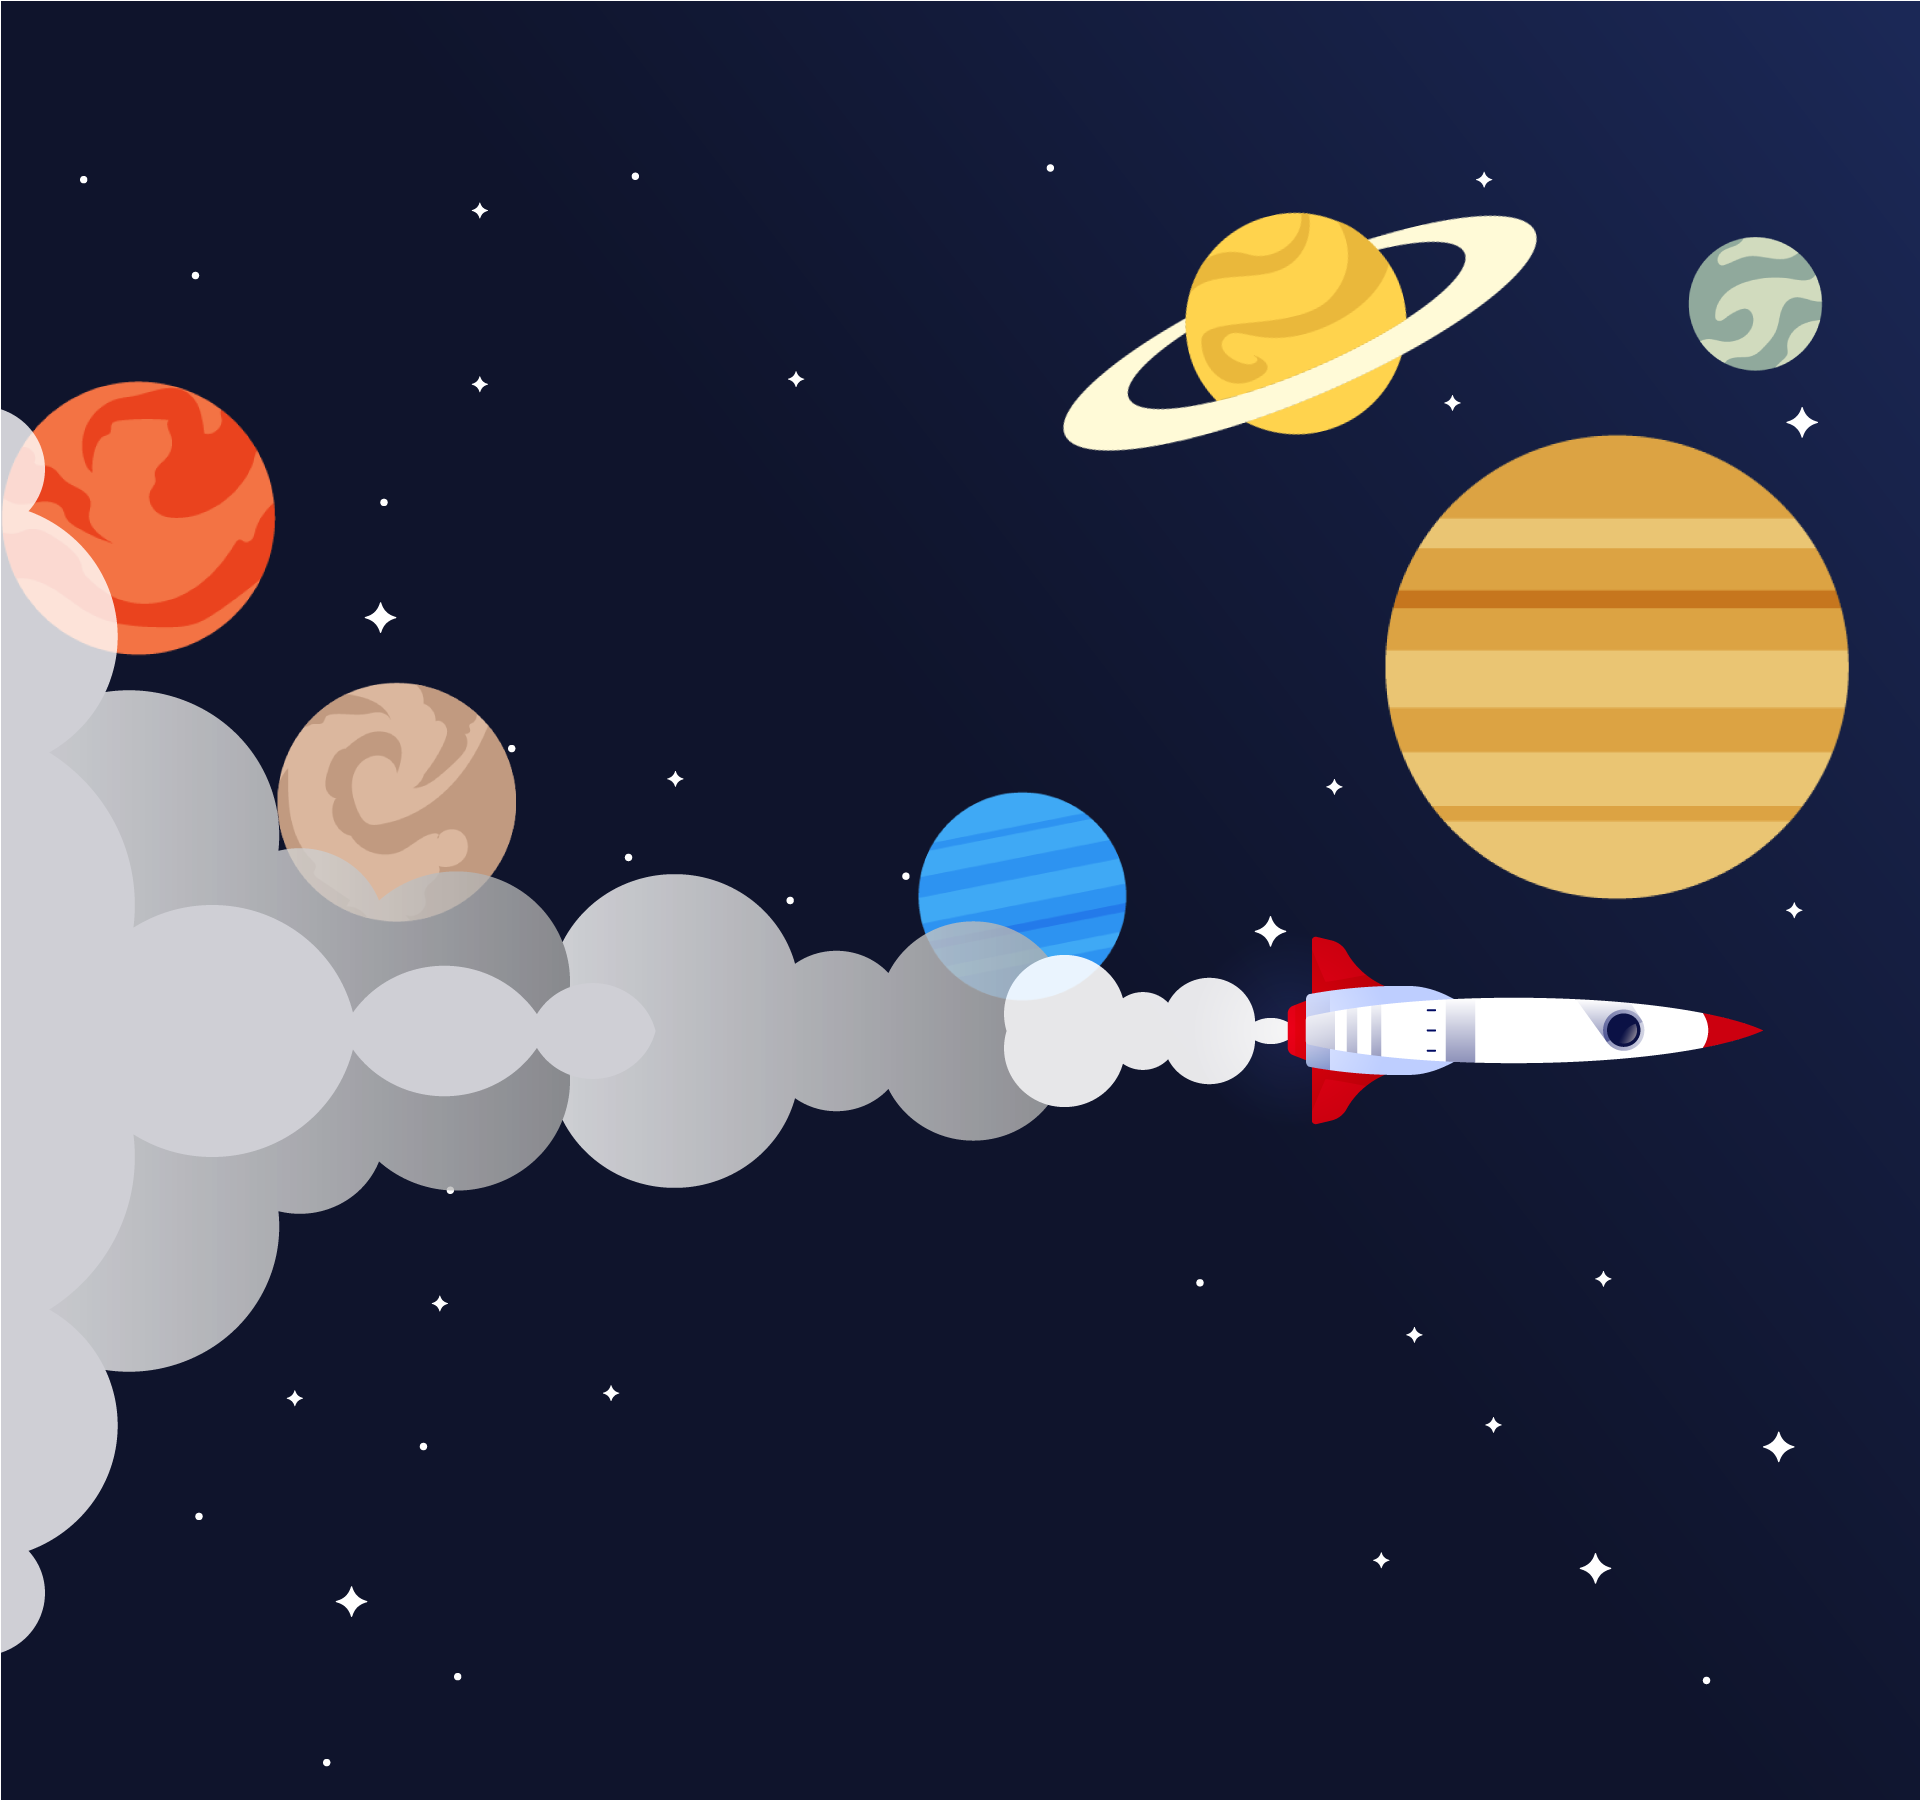
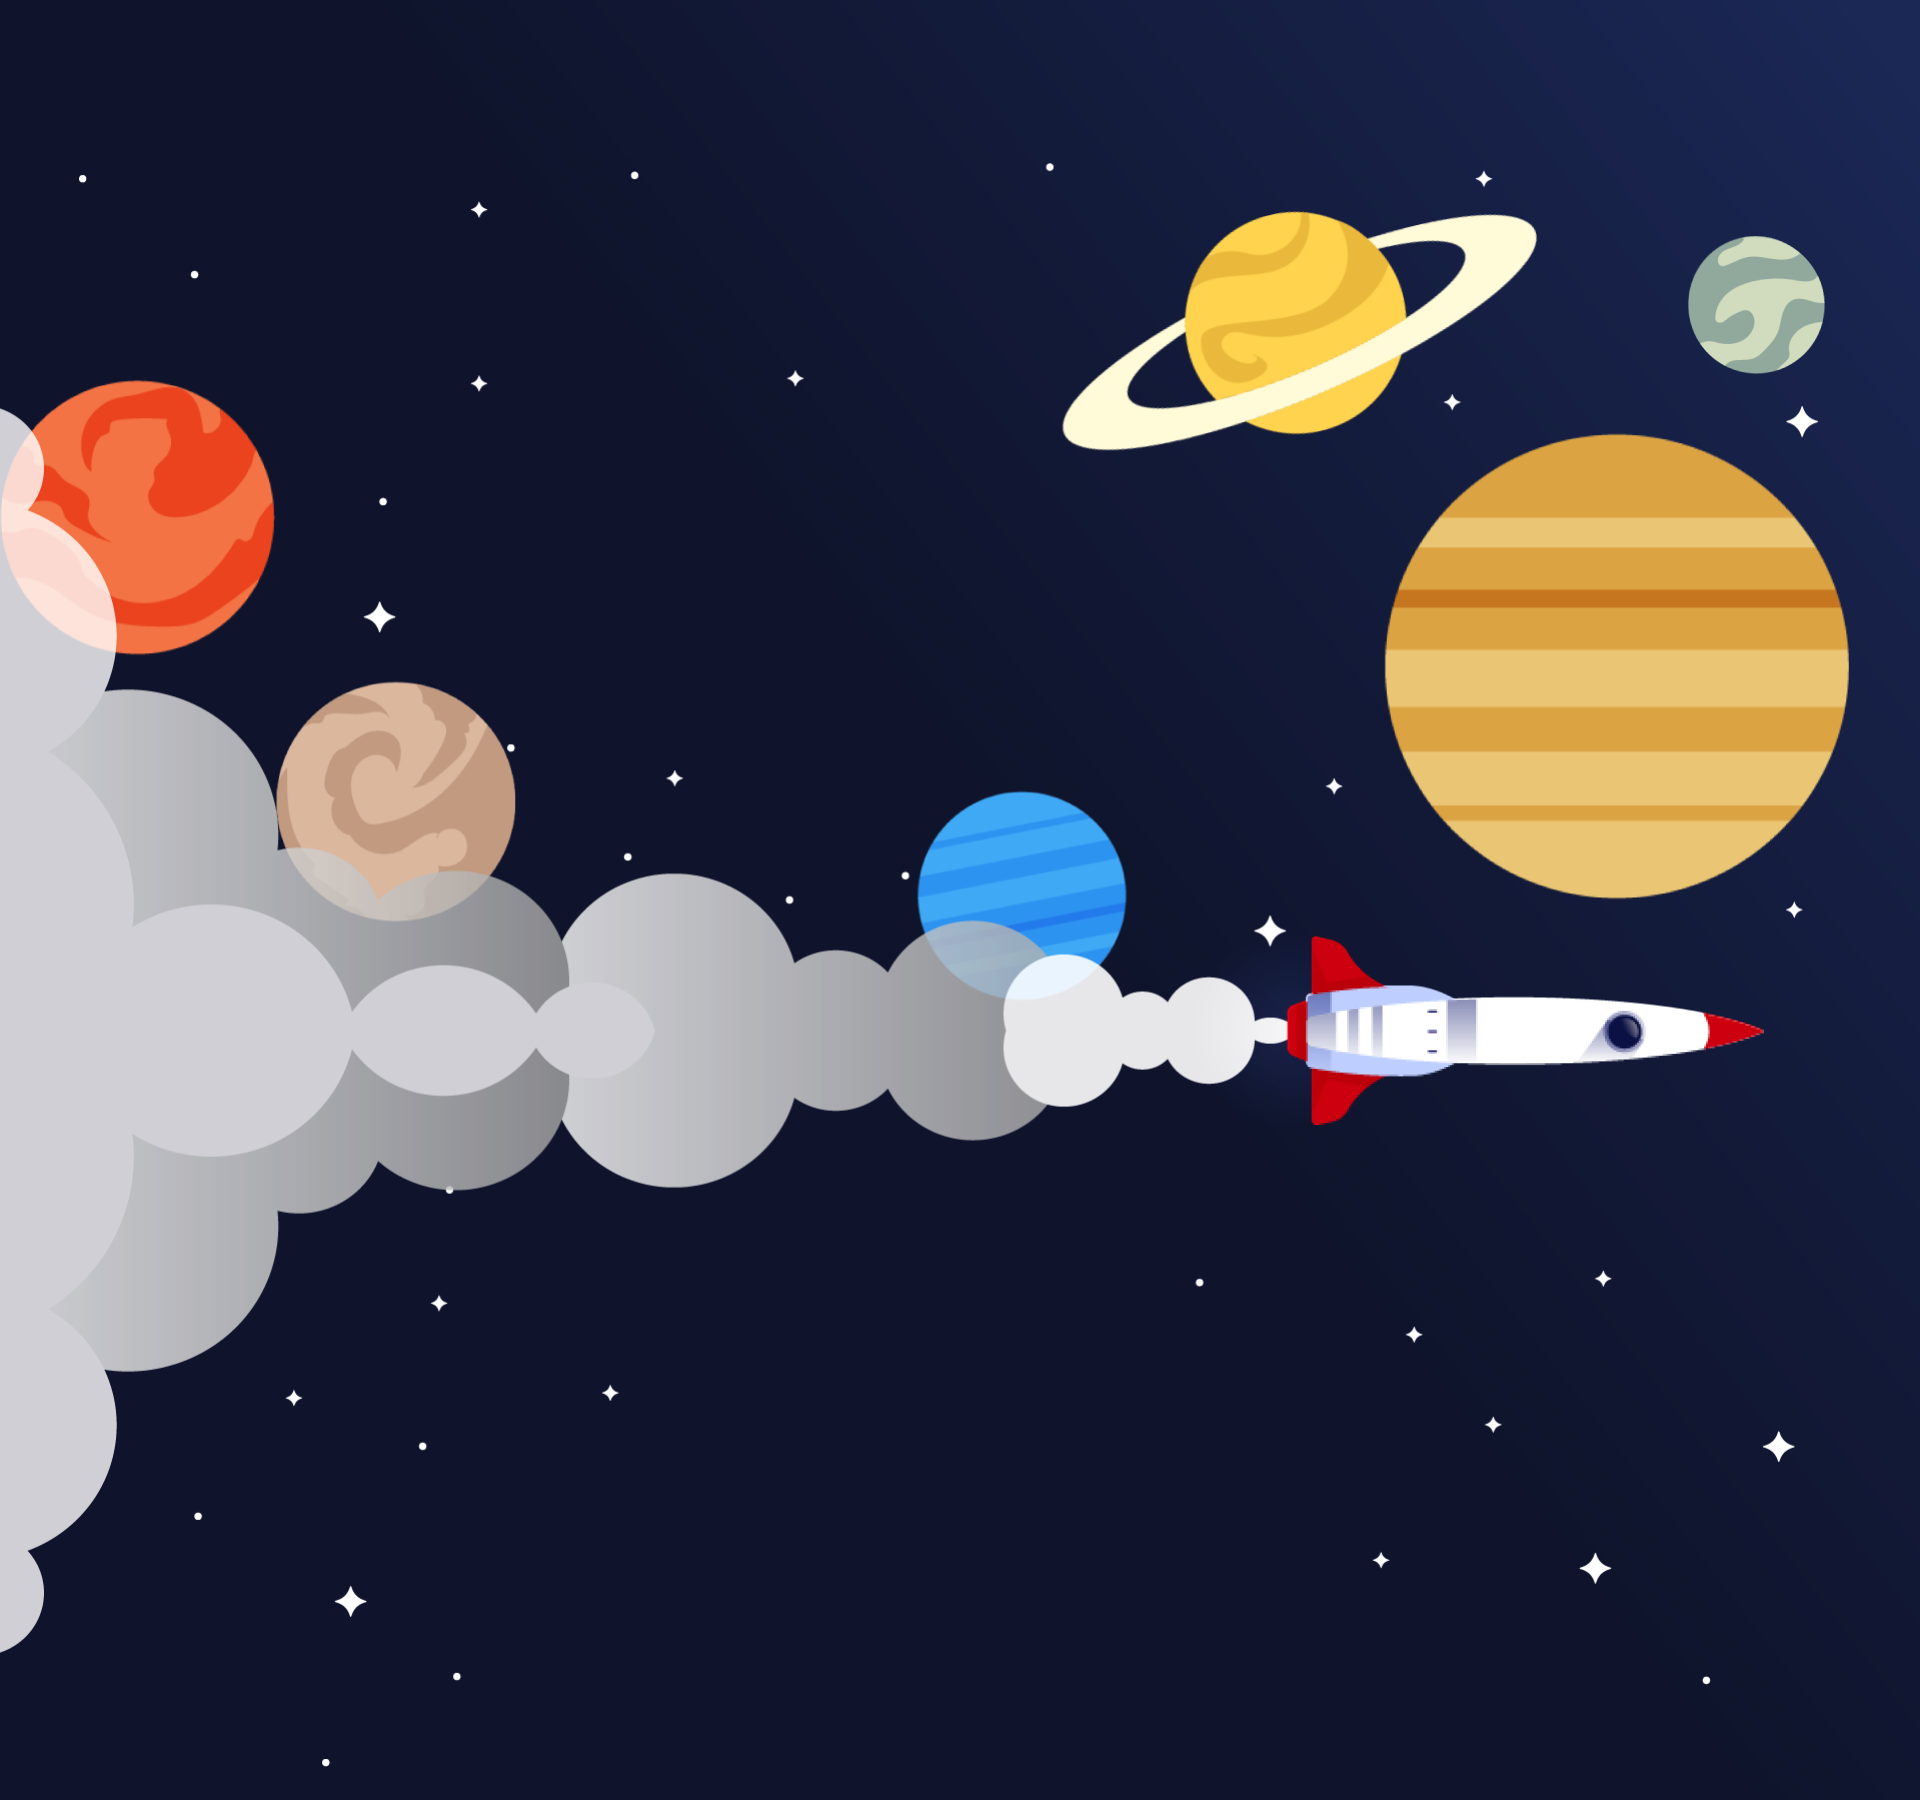
add star animation & set planet background

diff --git a/my-app/src/pages/Home.jsx b/my-app/src/pages/Home.jsx
@@ -1,7 +1,51 @@
 import React from "react"
-import Top3Card from '../components/Top3Card'
 import { Link } from 'react-router-dom'
-// import HomeComponent from "../components/HomeComponent";
+import '../css/home.css'
+
+import Mars from '../pictures/homeImage/Mars.png'
+import Pluto from '../pictures/homeImage/Pluto.png'
+import Jupiter from '../pictures/homeImage/Jupiter_real.png'
+import Neptune from '../pictures/homeImage/Naptune.png'
+import Saturn from '../pictures/homeImage/Saturn.png'
+import Mercury from '../pictures/homeImage/Mercury.png'
+import Rocket from '../pictures/homeImage/Rocket_Horizontal.png'
+import Clound from '../pictures/homeImage/clound.png'
+import Star from '../pictures/homeImage/star.png'
+
+const HomeComponent = () => {
+     return (
+          <div>
+               <img src={Mars} alt='Mars' className=' mars' />
+               <img src={Pluto} alt='Pluto' className=' pluto' />
+               <img src={Jupiter} alt='Jupiter' className=' jupiter' />
+               <img src={Neptune} alt='Neptune' className=' neptune' />
+               <img src={Saturn} alt='Saturn' className=' saturn' />
+               <img src={Mercury} alt='Mercury' className=' mercury' />
+               <img src={Rocket} alt='Rocket' className=' rocket' />
+               <img src={Clound} alt='Clound' className=' clound' />
+               <img src={Star} alt='Star1' className=' star01' />
+          </div>
+     )
+}
+
+const Top3Card = (props) => {
+
+     const {data} = props
+
+     return (
+          <div className=' top-3-box'>
+               <div className=' card-1'>
+                    {data[0]}
+               </div>
+               <div className=' card-2'>
+                    {data[1]}
+               </div>
+               <div className=' card-3'>
+                    {data[2]}
+               </div>
+          </div>
+     )
+}
 
 const Home = () => {
 
@@ -9,23 +53,21 @@ const Home = () => {
      
      return (
           <div className="home-layout">
-               {/* <HomeComponent /> */}
-               <div className=" absolute w-[1920px] h-[211px] top-[480px] text-white text-[64px] text-center leading-[96px]">
+               <HomeComponent />
+               <div className=" text-1">
                Practice C Programing
                <br />
                In 2 Week
                <br />
                <Link to='/Tasks'>
                     <button
-                         className=" w-[219px] h-[72px] top-[200px] text-[#21B921] text-[30px] leading-[58px]
-                         rounded-[20px] border-[1px] border-solid border-[#21B921] box-border duration-100 ease-linear
-                         hover:w-[240px] hover:h-[85px] hover:text-[35px] hover:bg-[#21B921] hover:text-white">
+                         className=" button-getStart">
                          GET START
                     </button>
                </Link>
                </div>
                     
-               <p className=" absolute w-[1920px] top-[1179px] text-white text-[30px] text-center leading-[45px]">
+               <p className=" text-2">
                Top 3 ranking didn't sort by score
                </p>
 

diff --git a/my-app/src/css/home.css b/my-app/src/css/home.css
@@ -1,0 +1,74 @@
+.top-3-box {
+     @apply z-[3] absolute top-[1269px]
+     md:top-[1269px]
+}
+
+.card-1 {
+     @apply w-[300px] h-[450px] bg-[#B9B9B9] rounded-[15px] text-white text-center text-[150px] pt-[115px] leading-[226px]
+     md:absolute md:right-[316.5px]
+}
+
+.card-2 {
+     @apply w-[300px] h-[450px] bg-[#B9B9B9] rounded-[15px] text-white text-center text-[150px] pt-[115px] leading-[226px]
+     md:absolute md:right-[-150px] 
+}
+
+.card-3 {
+     @apply w-[300px] h-[450px] bg-[#B9B9B9] rounded-[15px] text-white text-center text-[150px] pt-[115px]
+     md:absolute md:left-[313.5px]
+}
+
+.button-getStart {
+     @apply z-[3] top-[200px] w-[130px] h-[50px] text-[20px] text-[#21B921] leading-[22px]
+     rounded-[10px] border-[1px] border-solid border-[#21B921] box-border duration-100 ease-linear
+     hover:w-[150px] hover:h-[60px] hover:text-[25px] hover:bg-[#21B921] hover:text-white
+     md:w-[219px] md:h-[72px] md:text-[30px] md:leading-[58px] md:rounded-[20px]
+     md:hover:w-[240px] md:hover:h-[85px] md:hover:text-[35px] md:hover:bg-[#21B921] md:hover:text-white
+}
+
+.text-1 {
+     @apply z-[3] absolute w-[1920px] h-[211px] top-[480px] text-white text-[32px] text-center leading-[48px]
+     md:text-[64px] md:leading-[96px]
+}
+
+.text-2 {
+     @apply z-[3] absolute w-[1920px] top-[750px] text-white text-[20px] text-center leading-[22.5px]
+     md:top-[1179px] md:text-[30px] md:leading-[45px]
+}
+
+.mars {
+     @apply z-[2] absolute top-[385px] left-0 w-[271px] h-[271px]
+}
+
+.pluto {
+     @apply z-0 absolute top-[686px] left-[271px] w-[243px] h-[244px]
+}
+
+.jupiter {
+     @apply z-0 absolute top-[436px] right-[77px] w-[465px] h-[466px]
+}
+
+.neptune {
+     @apply z-[2] absolute top-[797px] right-[795px] w-[210px] h-[210px]
+}
+
+.saturn {
+     @apply z-0 absolute top-[158px] right-[340.72px] w-[520.37px] h-[228.01px] rotate-[-12.68deg]
+}
+
+.mercury {
+     @apply z-0 absolute top-[242px] right-[98px] w-[137px] h-[137px]
+}
+
+.rocket {
+     @apply z-[1] absolute top-[945px] left-[1270px] w-[475px] h-[187px]
+}
+
+.clound {
+     @apply z-0 absolute top-0 left-0 w-[1920px] h-[1800px]
+}
+
+.star01 {
+     @apply z-0 absolute top-[150px] left-[350px] w-[10px] h-[10px]
+     animate-star-amplify
+}

diff --git a/my-app/tailwind.config.js b/my-app/tailwind.config.js
@@ -1,6 +1,10 @@
 module.exports = {
   content: ["./src/**/*.{html,js,jsx}"],
   theme: {
+    screen: {
+      'mobile':'414px',
+      'tablet':'1024px',
+    },
     extend: {
       colors: {
         'red-logo':'#F33B13',
@@ -9,12 +13,21 @@ module.exports = {
       backgroundImage: {
         'app':"url('pictures/bgHome.png')",
         'app-tasks':"url('pictures/bgTasks.png')",
-        'app-homeFix':"url('pictures/bgHomefix.png')",
+        'app-home':"url('pictures/bgHomeNoPlanet.png')",
         'app-css':"url('../pictures/bgHome.png')",
       },
       fontFamily: {
         'anton':['Anton'],
-      }
+      },
+      keyframes: {
+        star: {
+          '0%,100%': {width: '10px',height: '10px',opacity: '0'},
+          '50%': {width: '30px',height: '30px',opacity: '1' },
+        },
+      },
+      animation: {
+        'star-amplify': 'star 2s linear infinite',
+      },
     },
   },
   plugins: [],

diff --git a/my-app/src/App.jsx b/my-app/src/App.jsx
@@ -13,7 +13,7 @@ function App() {
         <div className="app-layout">
           <Navbar />
           <Routes>
-            <Route path="/" element={<Home />} />
+            <Route path="/" element={<Home />}/>
             <Route path="/tasks" element={<Tasks />} />
             <Route path="/ranking" element={<Rangking />} />
             <Route path="/ebook" element={<Ebook />} />

diff --git a/my-app/src/index.css b/my-app/src/index.css
@@ -25,5 +25,5 @@
 }
 
 .home-layout {
-  @apply w-screen min-h-screen flex justify-center items-center text-white bg-app-homeFix bg-cover h-[1800px]
+  @apply w-screen min-h-screen flex justify-center items-center text-white bg-app-home bg-cover h-[1800px]
 }

diff --git a/my-app/src/components/Navbar.jsx b/my-app/src/components/Navbar.jsx
@@ -61,7 +61,7 @@ const NavList = () => {
 
 const Navbar = () => {
   return (
-    <nav className="nav-layout">
+    <nav className="nav-layout z-10">
       <div className="nav-control">
         <NavLogo />
         <NavList />
